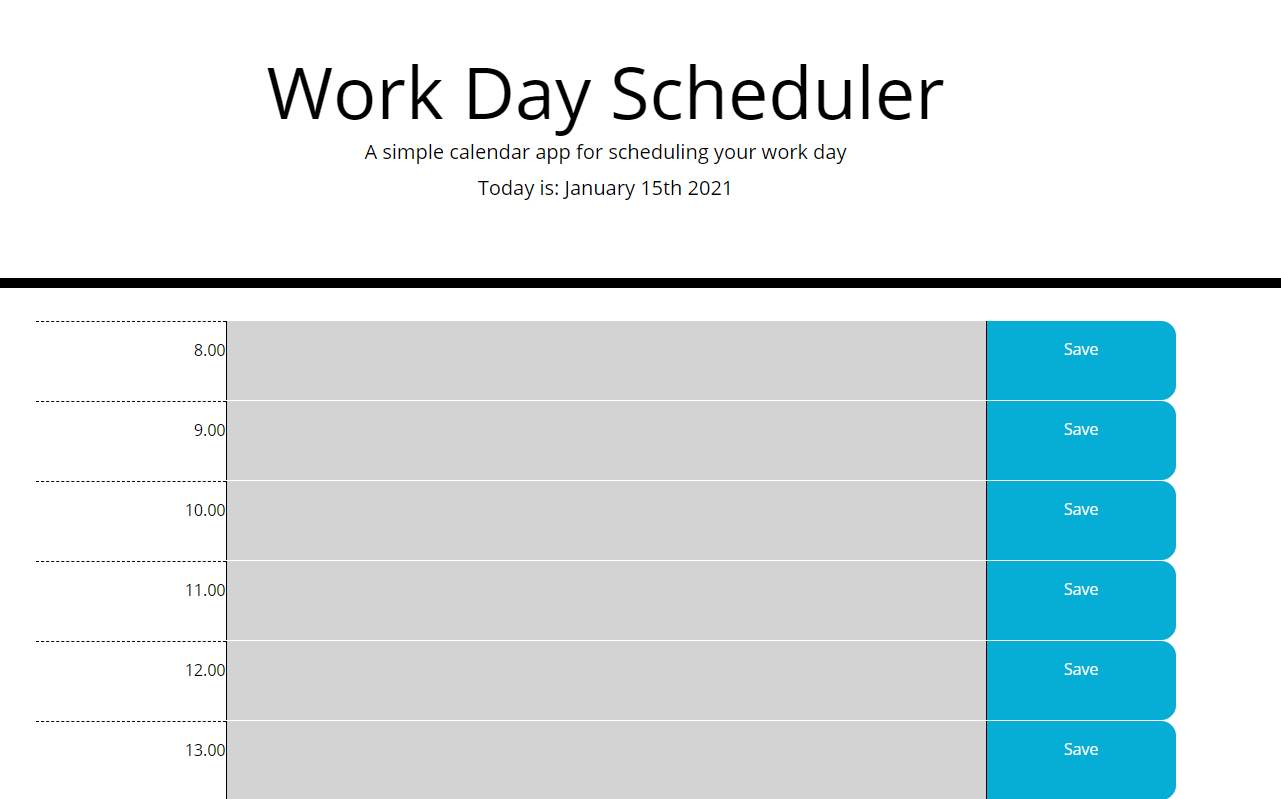
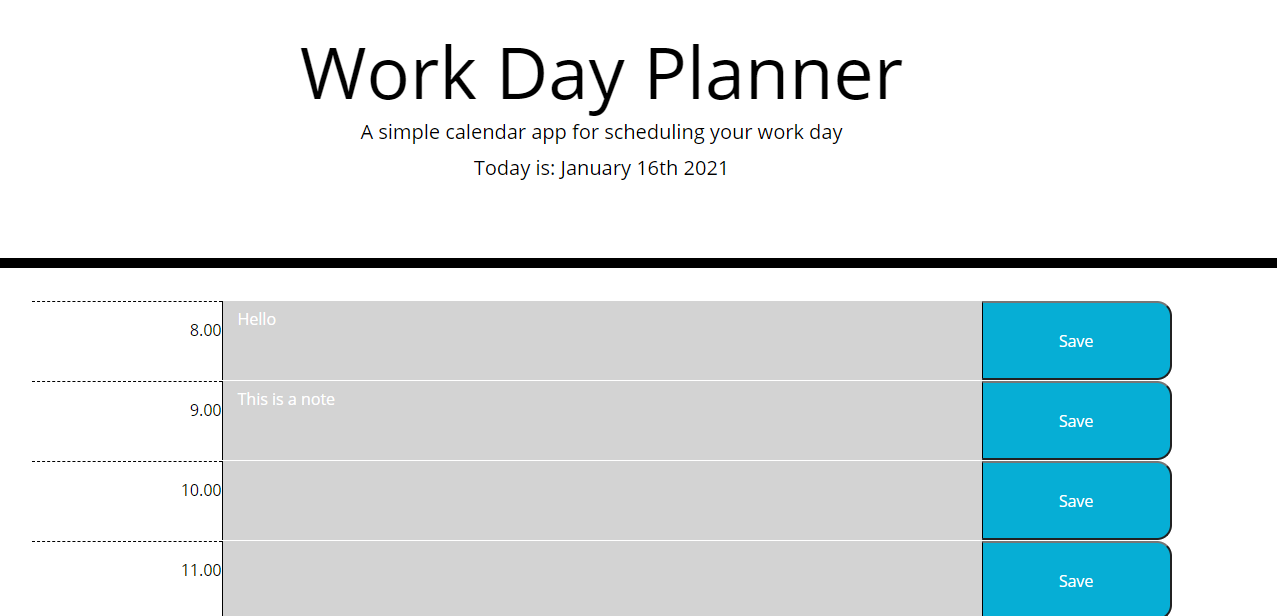
LS now saves properly, but displaying stuff from LS upon refresh doesn't work

diff --git a/logic.js b/logic.js
@@ -1,53 +1,60 @@
-const saveBtn = $(".saveBtn");
-const containerDiv = $(".container");
-let textareaID = "";
+let containerDiv = $(".container");
+let currentDay = $("#currentDay");
 
 let currentDate = moment().format('MMMM Do YYYY');
 let currentHour = moment().format('HH');
-$("#currentDay").text(`Today is: ${currentDate}`);
+currentDay.text(`Today is: ${currentDate}`);
 
+function importFromLS(hourslot) { // Get stored text from localStorage
+    let storedText = localStorage.getItem(hourslot)
+    console.log(`text to be imported: ${storedText}`);
+    if (storedText != "") {
+        $(hourslot).text(storedText);
+    } else { // create placeholder text if no ID has been found with a value
+        $(hourslot).attr("placeholder", "Enter Text Here...");
+    }
+}
+
+function saveAction(event){
+    let hourAttr = event.target.getAttribute("hour");
+    console.log(`${hourAttr} hourAttr saved`);
+
+    let correspondingText = $(`[hour=\"${hourAttr}\"]`).val();
+    console.log(`--corresponding text: ${correspondingText}`);
+
+    // set it to LS with textarea id as the index
+    localStorage.setItem(`hourSlot${hourAttr}`, correspondingText);
+    //alert("The item has been saved");
+}
 
 function displayThings() {
     //generate hour rows in div.container and give them appopriate classes and ids
     for (i = 8; i <= 17; i++) {
-        const rowDiv = $("<div>").addClass("row").attr("id", `row${i}`)
-        containerDiv.append(rowDiv);
-        rowDiv.append($("<div>").addClass("col-md-2 hour").text(`${i}.00`));
-        rowDiv.append($("<textarea>").addClass("col-md-8").attr("id", `textarea${i}`));
-        rowDiv.append($("<button>").addClass("col-md-2 saveBtn").attr("id", `saveBtn${i}`).text("Save"));
+        let rowDiv = $("<div>").addClass("row").attr("id", `row${i}`);
+        let hourDiv = $("<div class=\"col-md-2 hour\">").attr("id", `hour${i}`).text(`${i}.00`);
+        let textArea = $("<textarea class=\"col-md-8\">").attr({ id: `textarea${i}`, hour: `${i}` });
+        let saveBtn = $("<button class=\"col-md-2 saveBtn\">").attr({ id: `saveBtn${i}`, hour: `${i}` }).text("Save");
+        //console.log(i + " things created");
+
+        containerDiv.append(rowDiv); // append the rows and their contents to container
+        rowDiv.append(hourDiv).append(textArea).append(saveBtn);
+        //console.log(i + " things appended");
 
         // color coding with classes being assigned to background colors
         let time = "";
         if (currentHour > i) { time = "past"; }
         else if (currentHour < i) { time = "future"; }
         else { time = "present"; };
-        $(`#textarea${i}`).addClass(time);
+        textArea.addClass(time);
+        //console.log(i + " color coding done");
 
-        textareaID = `#textarea${i}`
-        importFromLS(textareaID); // import the text from localstorage for each textarea
+        let hourSlot = `hourSlot${i}`
+        importFromLS(hourSlot); // import the text from localstorage for each textarea
+        //console.log(i + " LS import done");
+
+        $(`#saveBtn${i}`).click(saveAction);
     }
 }
 
-function importFromLS(textareaID) {
-    // Get stored text from localStorage
-    if (localStorage.getItem(textareaID) != "") {
-        $(textareaID).text(localStorage.getItem(textareaID));
-    } else { // create placeholder text if no ID has been found with a value
-        $(textareaID).attr("placeholder", "Enter Text Here...");
-    }
-}
-
-
-// saving input in textareas with savebtn
-saveBtn.click(() => {
-
-    $("textarea").each(() => {
-        let hourSlotText = $(this).val(); // get text of each row
-        console.log(hourSlotText);
-        localStorage.setItem($(this).attr("id"), hourSlotText); // set it to LS with textarea id of the row
-    })
-
-
-});
-
+// initialize with main render function
 $(document).ready(displayThings);

diff --git a/index.html b/index.html
@@ -4,12 +4,11 @@
     <meta charset="UTF-8" />
     <meta name="viewport" content="width=device-width, initial-scale=1.0" />
     <meta http-equiv="X-UA-Compatible" content="ie=edge" />
-    <link rel="stylesheet" href="https://stackpath.bootstrapcdn.com/bootstrap/4.3.1/css/bootstrap.min.css"/>
 
+    <link rel="stylesheet" href="https://stackpath.bootstrapcdn.com/bootstrap/4.5.2/css/bootstrap.min.css" 
+    integrity="sha384-JcKb8q3iqJ61gNV9KGb8thSsNjpSL0n8PARn9HuZOnIxN0hoP+VmmDGMN5t9UJ0Z" crossorigin="anonymous">
     <link rel="stylesheet" href="https://use.fontawesome.com/releases/v5.8.1/css/all.css"
-      integrity="sha384-50oBUHEmvpQ+1lW4y57PTFmhCaXp0ML5d60M1M7uH2+nqUivzIebhndOJK28anvf"
-      crossorigin="anonymous"/>
-
+    integrity="sha384-50oBUHEmvpQ+1lW4y57PTFmhCaXp0ML5d60M1M7uH2+nqUivzIebhndOJK28anvf" crossorigin="anonymous"/>
     <link rel="stylesheet" href="https://fonts.googleapis.com/css?family=Open+Sans&display=swap"/>
     <link rel="stylesheet" href="Assets/style.css"/>
 
@@ -27,7 +26,7 @@
  
   </body>
 
-  <script src="https://code.jquery.com/jquery-3.4.1.min.js"></script>
+  <script src="https://code.jquery.com/jquery-3.5.1.min.js"></script>
   <script src="https://cdnjs.cloudflare.com/ajax/libs/moment.js/2.24.0/moment.min.js"></script>
   <script src="logic.js"></script> 
 </html>
